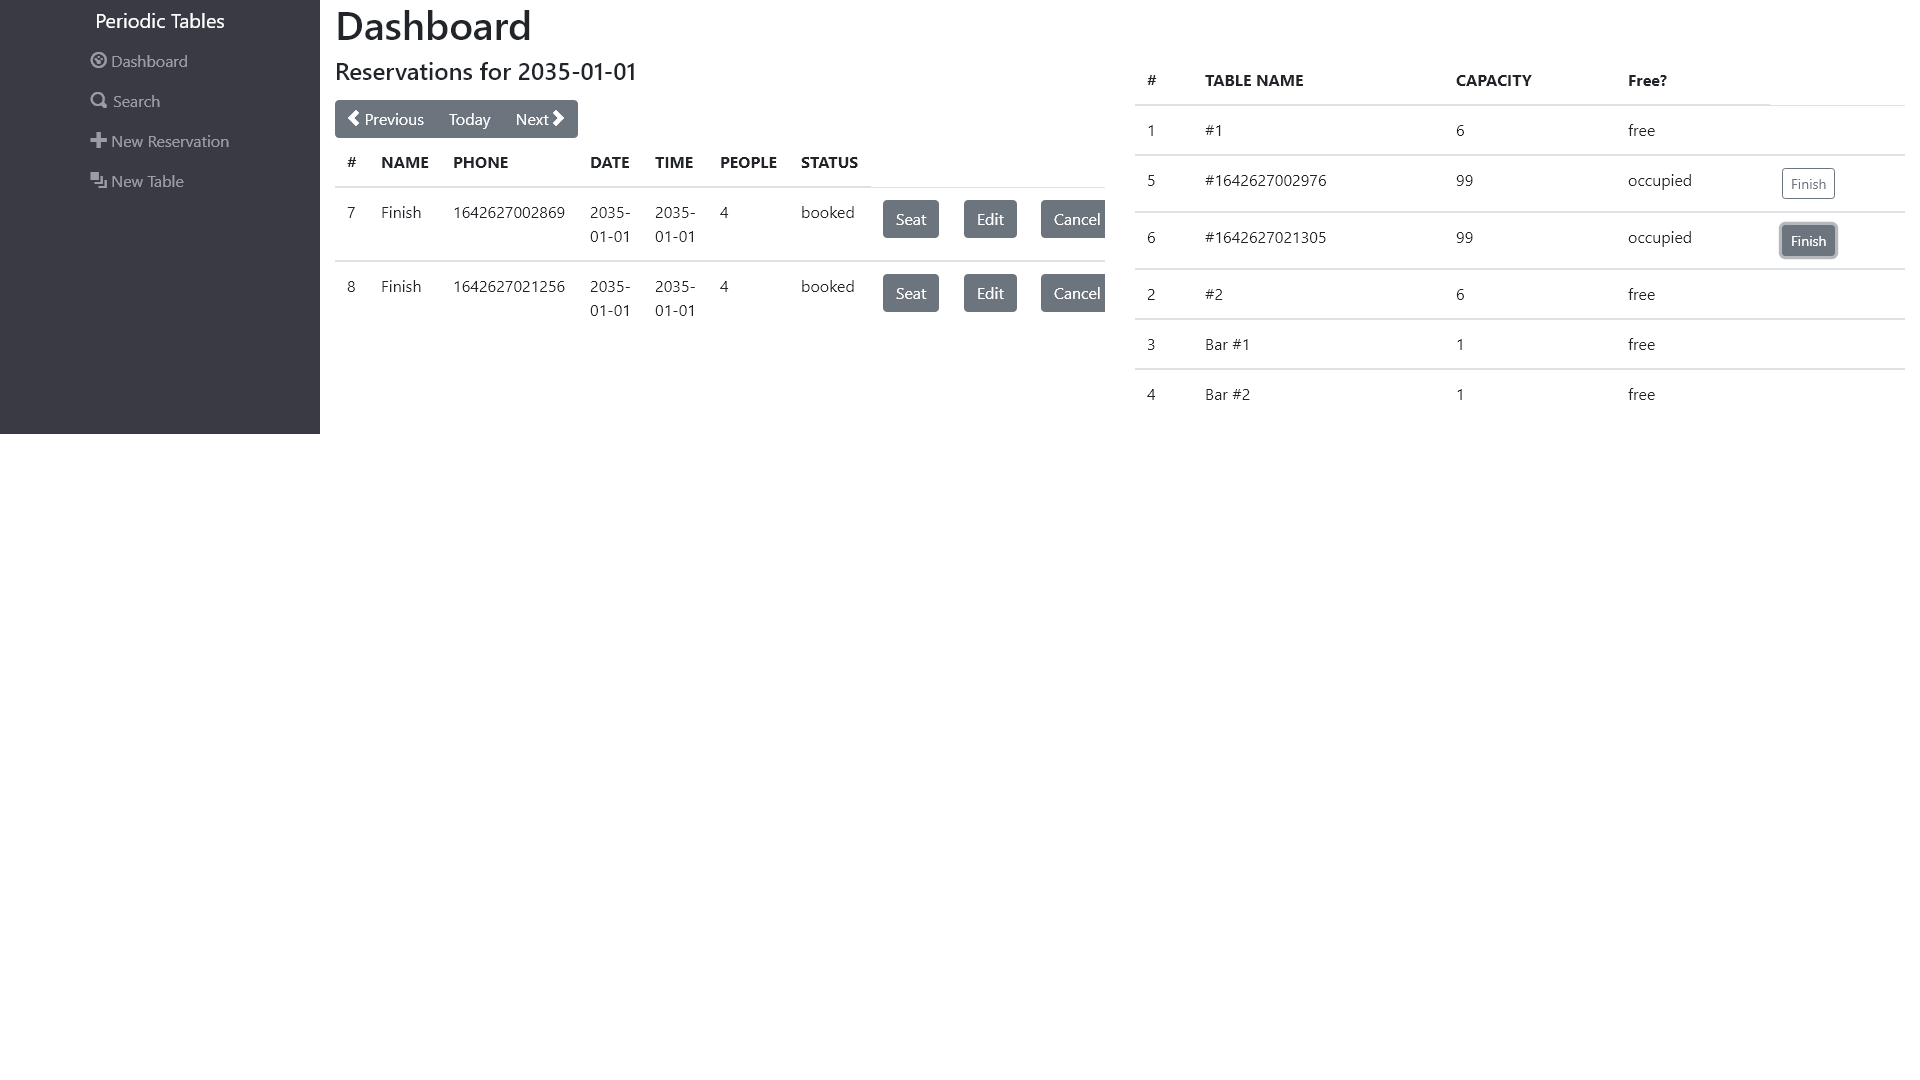
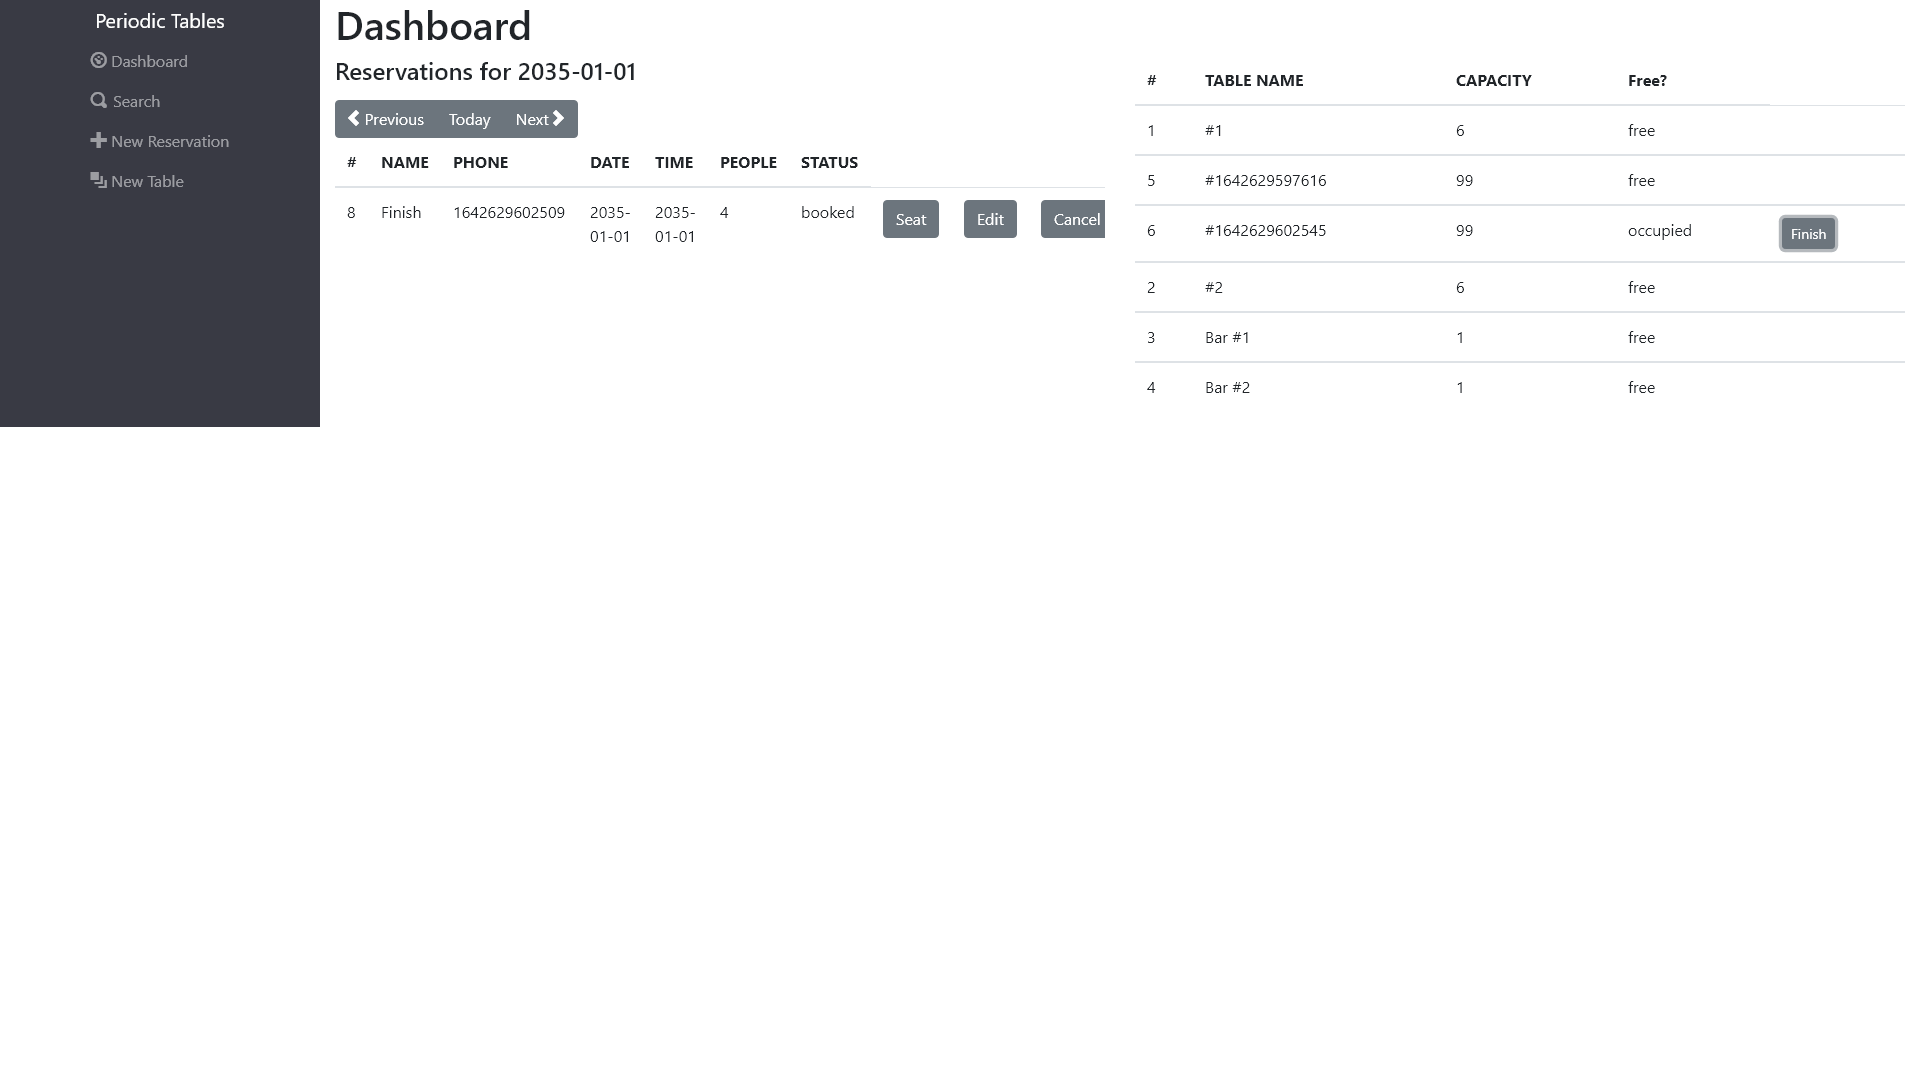
US-05 Finish button completed

Changed region(s): [[0.4375, 0.1528, 0.9688, 0.3667], [0.0, 0.3972, 0.1562, 0.4278], [0.25, 0.2444, 0.2812, 0.275]]

diff --git a/front-end/e2e/us-05-finish-occupied-table.test.js b/front-end/e2e/us-05-finish-occupied-table.test.js
@@ -61,13 +61,13 @@ describe("US-05 - Finish an occupied table - E2E", () => {
         path: ".screenshots/us-05-dashboard-finish-button-before.png",
         fullPage: true,
       });
-      console.log(64);
+    
       const containsOccupied = await containsText(
         page,
         `[data-table-id-status="${table.table_id}"]`,
         "occupied"
       );
-      console.log(70);
+     
       expect(containsOccupied).toBe(true);
 
       const finishButtonSelector = `[data-table-id-finish="${table.table_id}"]`;
@@ -79,11 +79,11 @@ describe("US-05 - Finish an occupied table - E2E", () => {
         );
         await dialog.accept();
       });
-      console.log(82);
+     
       await page.click(finishButtonSelector);
-      console.log(84);
+   
       await page.waitForResponse((response) => {
-        // return response.url().endsWith(`/tables`);
+        return response.url().endsWith(`/tables`);
       });
 
       await page.screenshot({

diff --git a/front-end/src/dashboard/TableList.js b/front-end/src/dashboard/TableList.js
@@ -3,20 +3,11 @@ import { useHistory } from "react-router-dom";
 import { clearSeat, listTables } from "../utils/api";
 
 export default function TablesList({ table, loadDashboard }) {
-  const history = useHistory();
-  let tableId = table.table_id;
-
-  async function finishAlert() {
-      console.log("HELLO")
-    if (
-      window.confirm(
-        "Is this table ready to seat new guests?" 
-      )
-    ) {
-        console.log("ABC")
+  async function finishAlert(e) {
+    e.preventDefault();
+    if (window.confirm("Is this table ready to seat new guests?")) {
       await clearSeat(table.table_id)
       await loadDashboard()
-      console.log("CLICK ")
     }
   }
 

diff --git a/back-end/src/tables/tables.controller.js b/back-end/src/tables/tables.controller.js
@@ -110,7 +110,7 @@ async function checkCapacity(req, res, next) {
 
 async function checkIfOccupied(req, res, next) {
   const { reservation_id } = res.locals.table;
-  if(reservation_id) {
+  if(!reservation_id) {
     return next({ status: 400, message: `table not occupied`})
   }
  next()
@@ -193,10 +193,8 @@ module.exports = {
   ],
 
   delete: [
-    // hasResId,
     asyncErrorBoundary(tableExists),
     checkIfOccupied,
-    // asyncErrorBoundary(reservationExists),
     destroy
   ]
 
